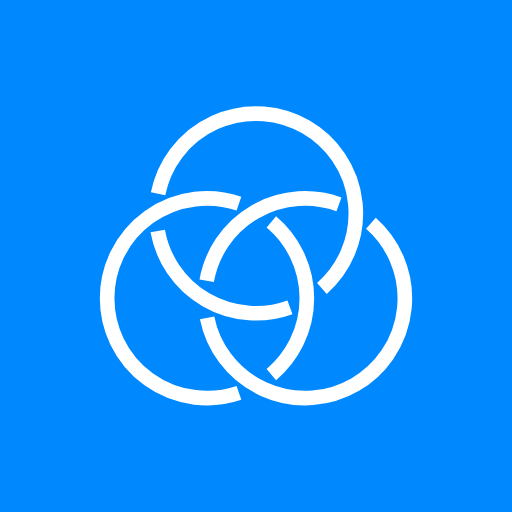
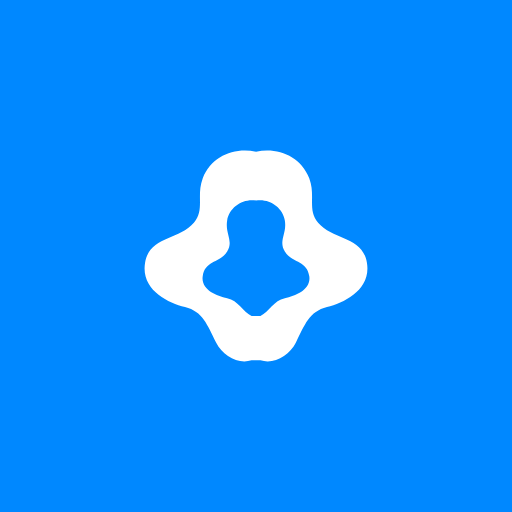
Вернуть значок приложения: белый силуэт на синем
Значок снова такой, каким был после смены палитры на синюю
(#0088FF); узел Борромео из значка убран. Файлы значка, манифест
и index.html возвращены к состоянию коммита 3fad7b7.

Claude-Session: https://claude.ai/code/session_01PkfaRYH7Rjk9UeiToMFzDy

Changed region(s): [[0.1875, 0.1875, 0.8125, 0.8125]]

diff --git a/README.md b/README.md
@@ -13,7 +13,7 @@ npm run dev
 - Шрифт Inter (переменный, с оптическими размерами: `@fontsource-variable/inter/opsz.css`), акцентный цвет `#0088FF`. Курсив — настоящая гарнитура `opsz-italic.css`: синтез наклона выключен (`font-synthesis: none`), и без нее курсивный текст остался бы прямым.
 - Размеры текста берутся из шкалы в `tokens.css`, отступы — из сетки 4 (`--space-*`), радиусы — `--radius-*`. Новые значения в стили экранов не добавляются: нужен другой размер — сначала шкала.
 - Фон приложения плоский (`--color-bg-app`), карточки, шапки и списки белые, без теней; тень только у того, что парит (меню, кнопка «вниз», подсказки, нижние окна). Слой `src/styles/theme.css` — «таблетка» под значком выбранной вкладки.
-- Схемы и формулы из психологии (схема L Лакана, «$ ◊ a», нормальная кривая, ABC(D) Эллиса из КПТ, цепочка означающих, модель Бека, когнитивный треугольник, бланк «дневника мыслей», окно толерантности, объект a, узел Борромео) нарисованы одной тонкой линией в `src/components/Diagram/`: сплошное — то, что есть, пунктир — то, чего пока нет, синий — главное. Сейчас они нигде не подключены: пустые экраны оформлены простым текстом, как раньше. Узел Борромео — значок приложения (`public/icon.svg`, PNG для телефона сделаны из него). Автономные SVG этих схем для анимации в сторонних сервисах собираются из `Diagram.tsx` (части схем названы через `data-part`).
+- Схемы и формулы из психологии (схема L Лакана, «$ ◊ a», нормальная кривая, ABC(D) Эллиса из КПТ, цепочка означающих, модель Бека, когнитивный треугольник, бланк «дневника мыслей», окно толерантности, объект a, узел Борромео) нарисованы одной тонкой линией в `src/components/Diagram/`: сплошное — то, что есть, пунктир — то, чего пока нет, синий — главное. Сейчас они нигде не подключены: пустые экраны оформлены простым текстом, как раньше. Автономные SVG этих схем для анимации в сторонних сервисах собираются из `Diagram.tsx` (части схем названы через `data-part`).
 - В настройках теста и задания у переключателей есть пояснение (`Row` с `hint`); у кнопок со значком на компьютере — подсказка при наведении (`utils/hoverTitles.ts`). Нижняя панель без подписей — так решено.
 - Полосы прокрутки системные; скрыты только в рядах чипсов и в нижних окнах.
 - Справочные цвета для текста на белом: `--color-green-text`, `--color-yellow-text`, `--color-orange-text`, `--color-red-text`.
